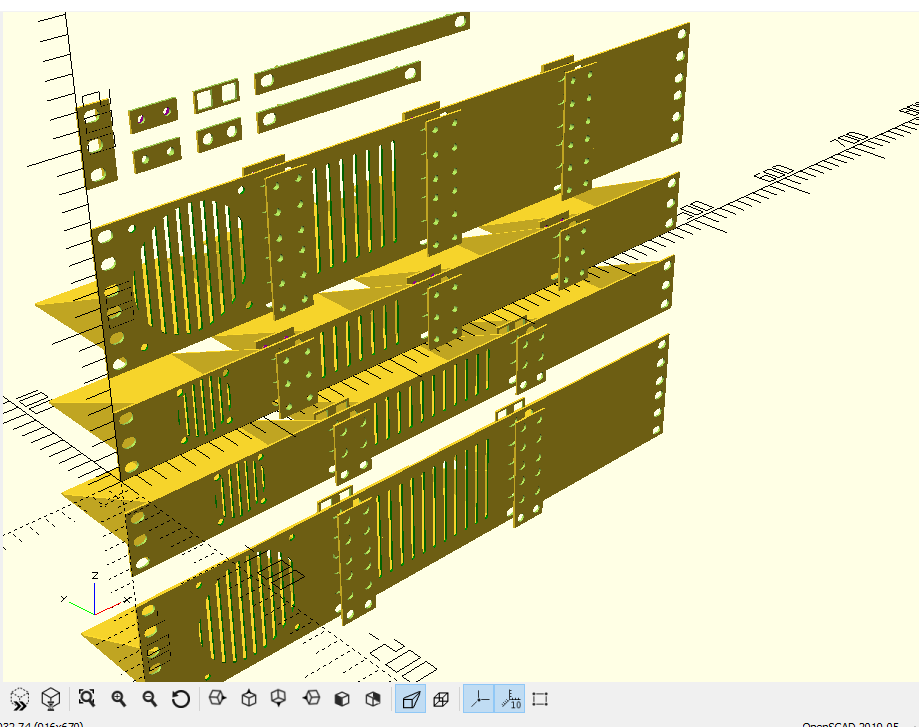
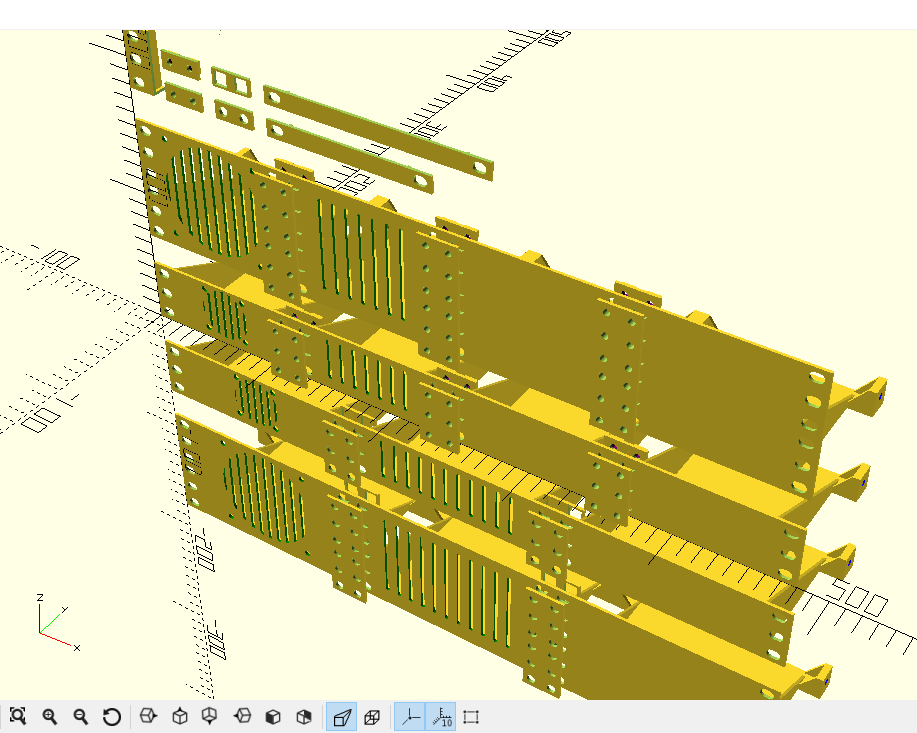
Renamed some files Updated the readme and image files added some strengthening supports to the panel joiners

diff --git a/README.md b/README.md
@@ -1,4 +1,5 @@
-# 19_inch_rack_panels
+# 19 inch rack panels
 3d Models to produce a 19" rack panel
 
-![Various Combinations](example_image.png)
+![Various Combinations from the front](example_image.png)
+![Various Combinations from the back](example_image_back.png)
